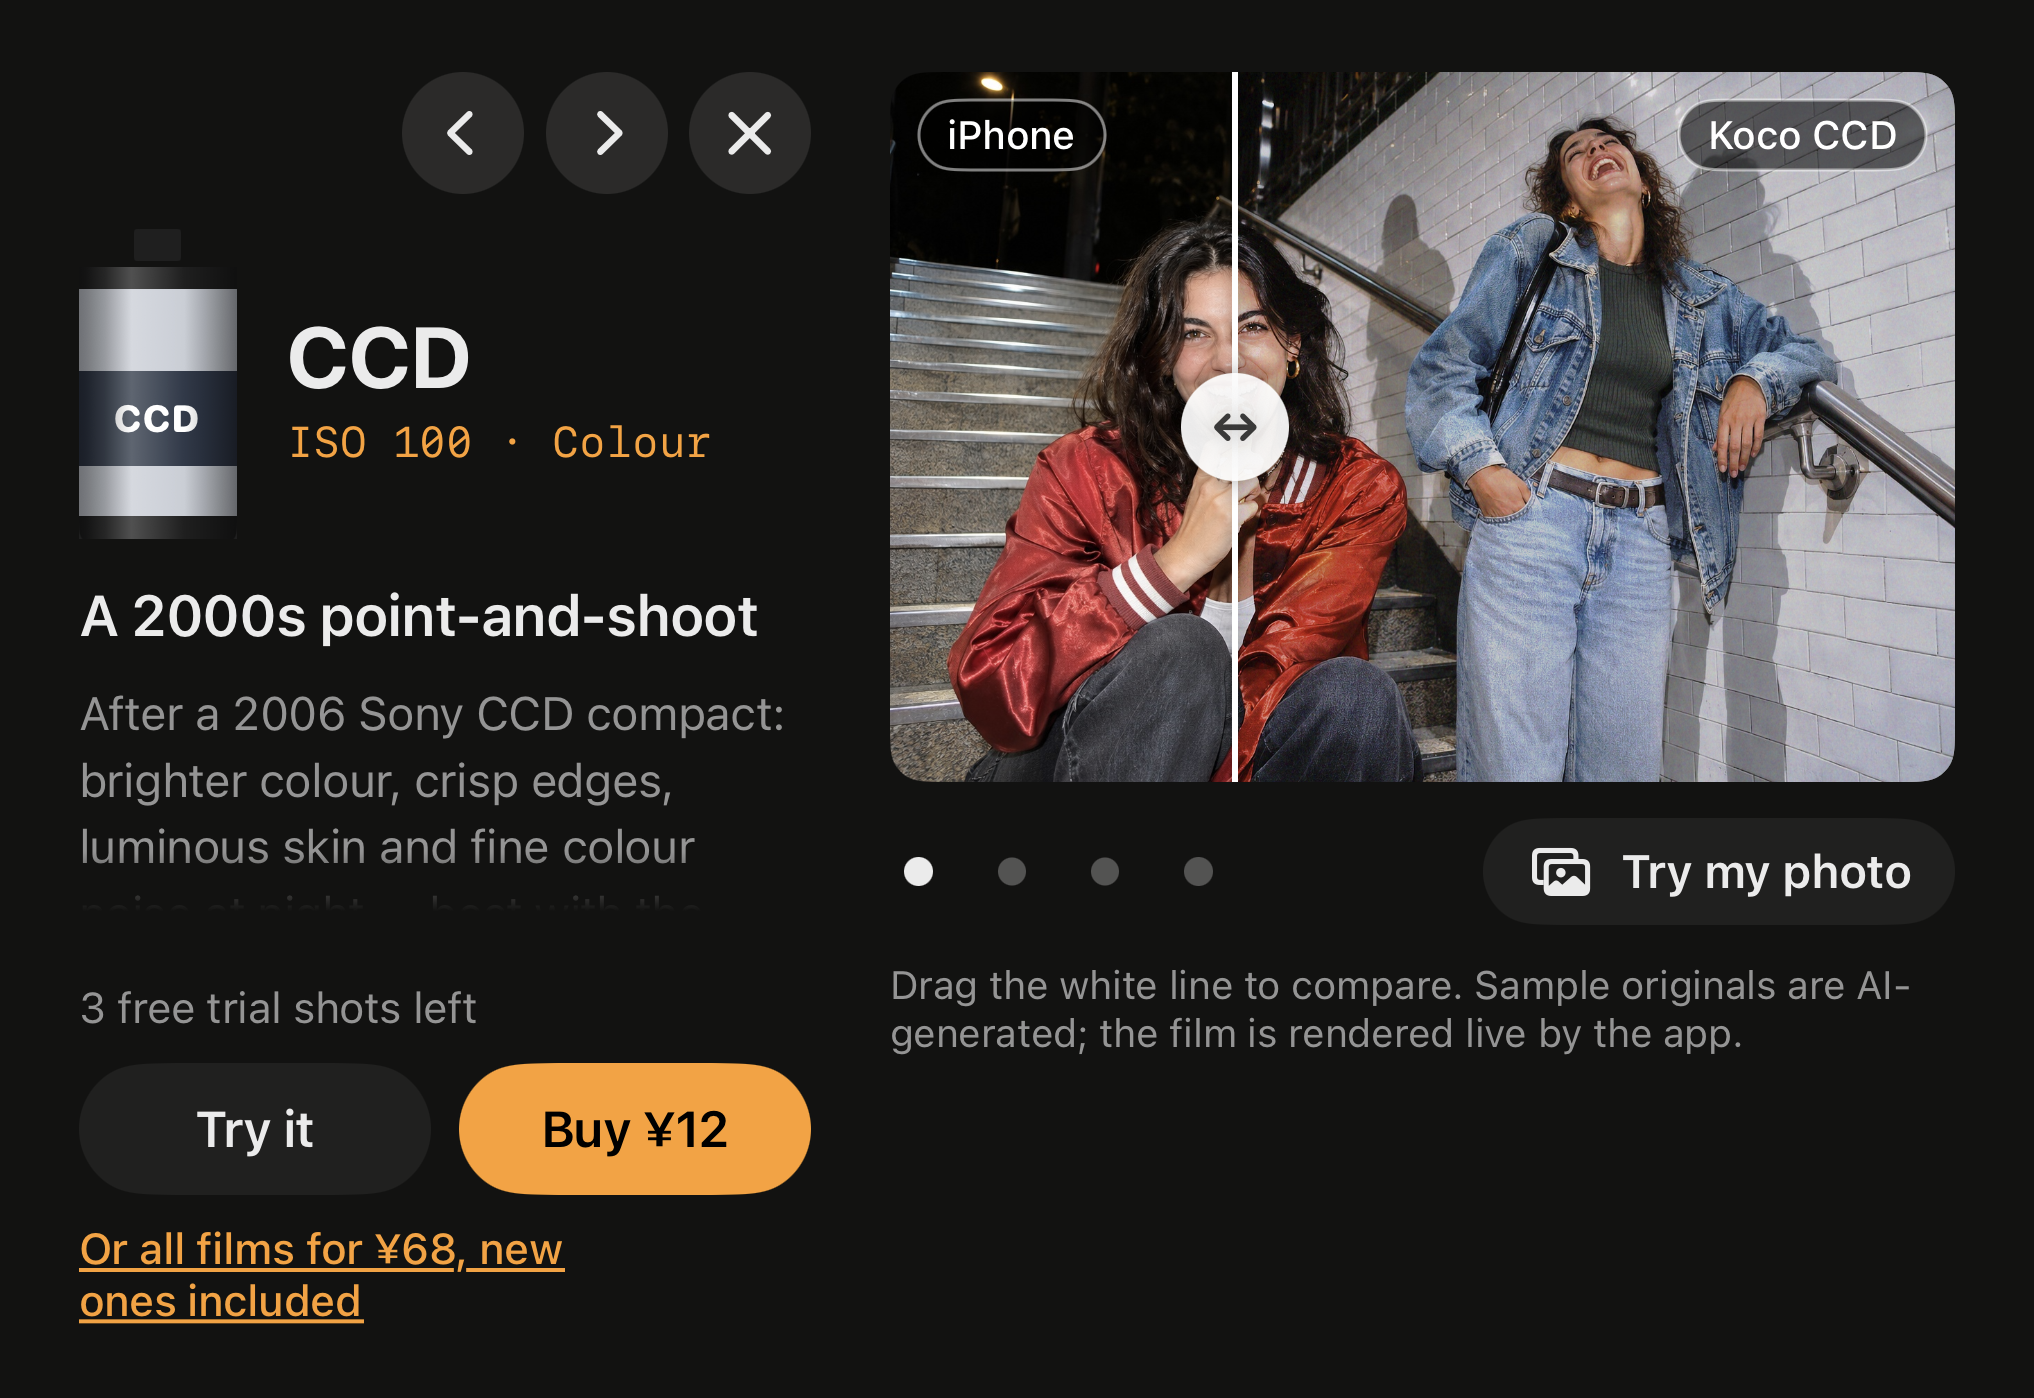
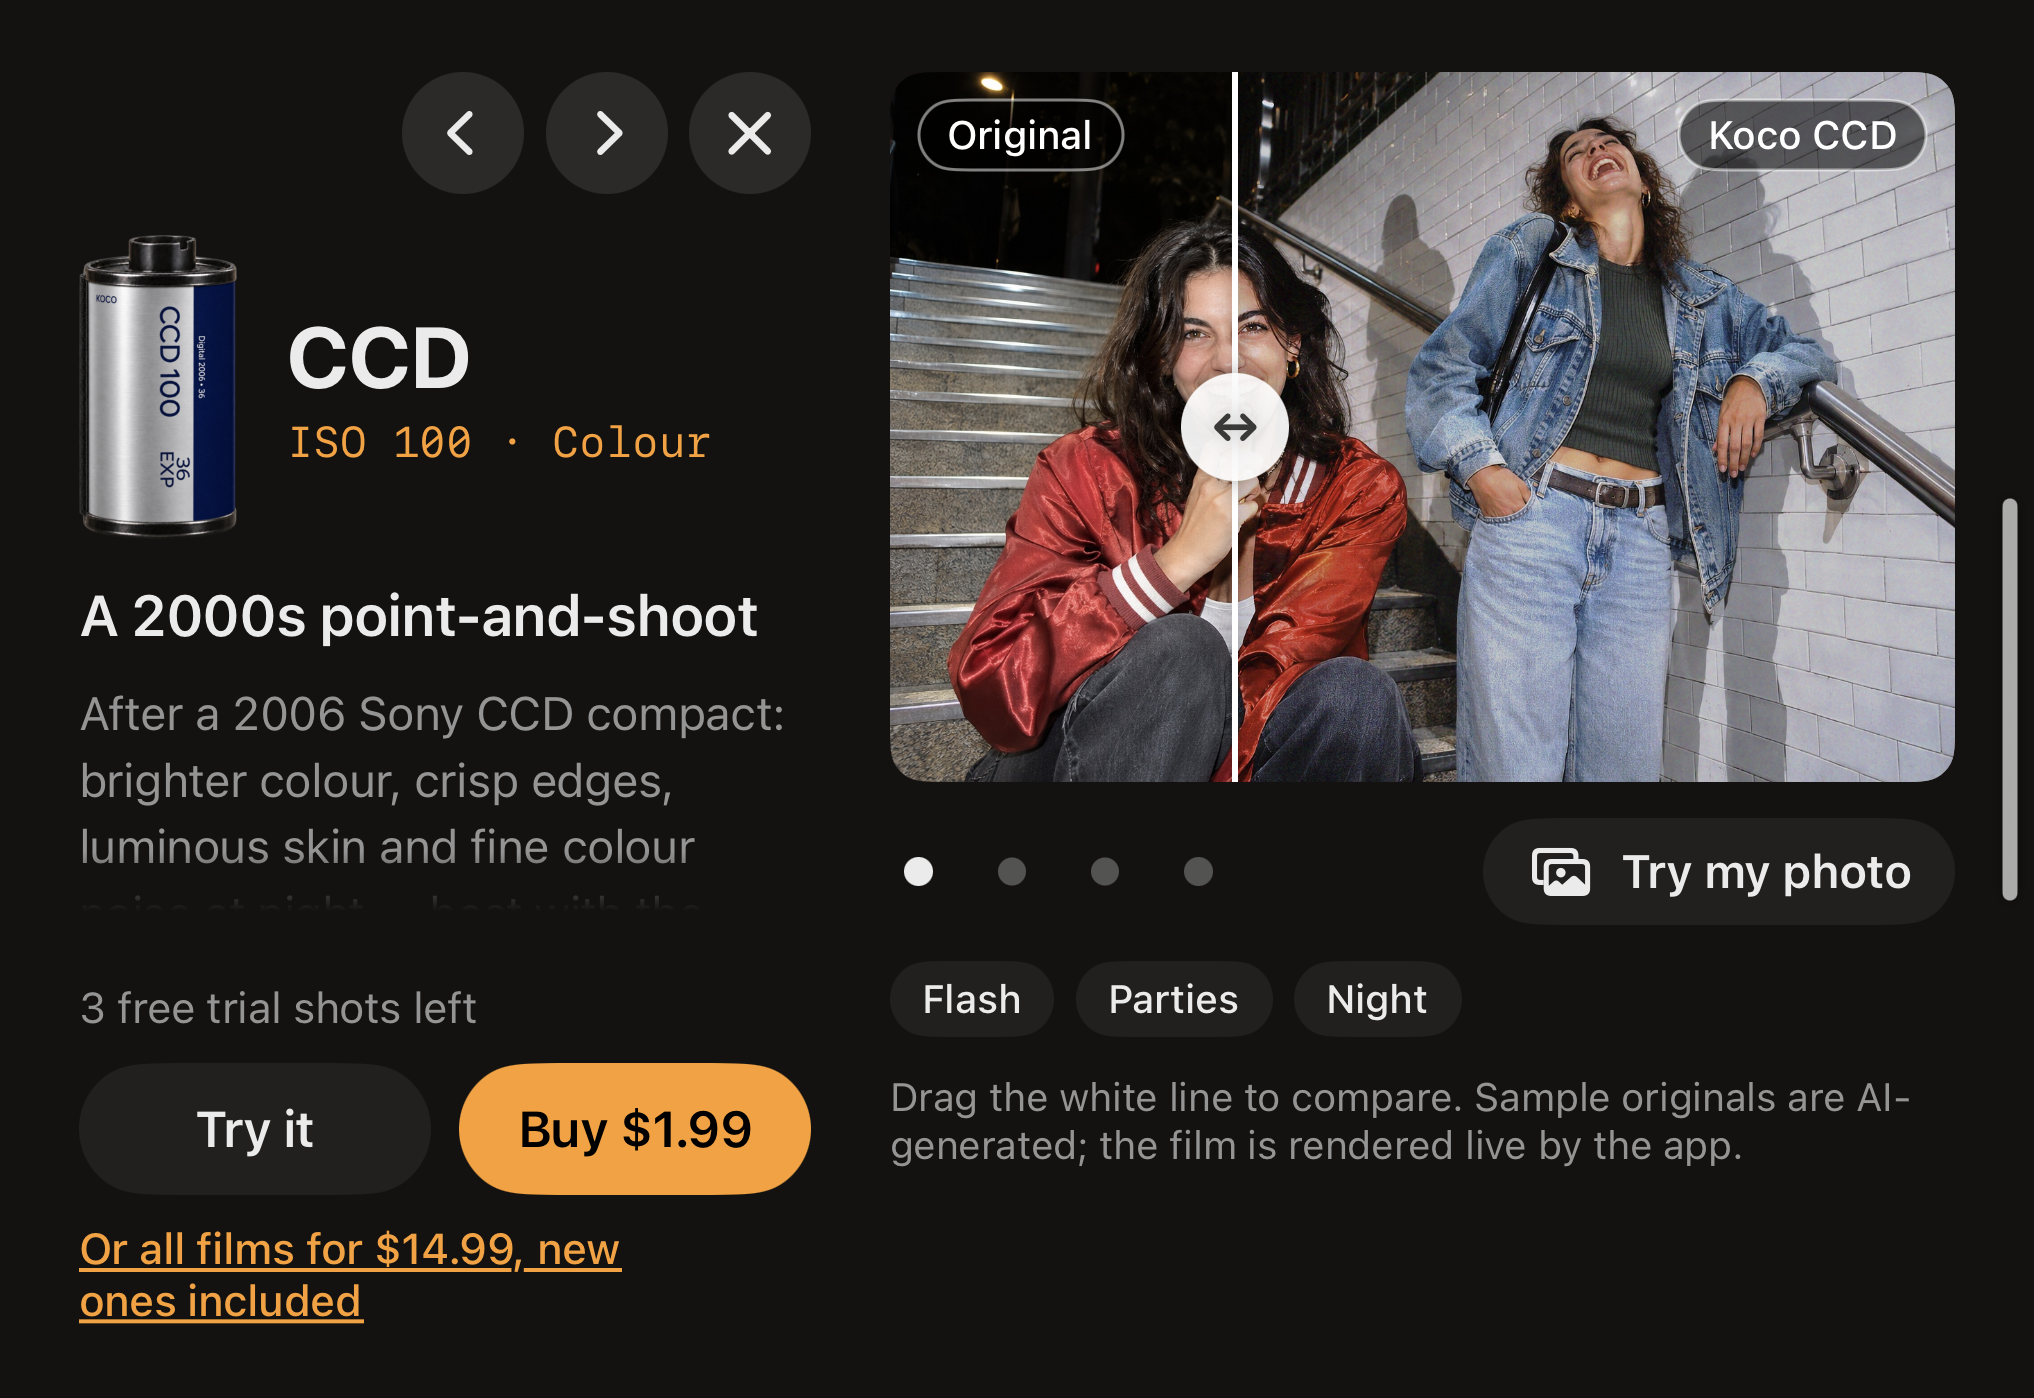
Check the release material against the app, and fix what was wrong
- Sample comparisons no longer call the AI-generated original "iPhone":
  "Original" for samples, "iPhone" only for the user's own photo,
  VoiceOver included; the store description says the same.
- The description no longer says every film comes from film data: GR Neg
  and CCD are fitted to real camera pictures.
- Purchase review screenshots re-shot with the new canisters.
- design/appstore/consistency.md lists what agrees and what is still open
  (brand names, waist-level finder, contacts, version, name, screenshots).
- The refund test waits for the refund to reach the entitlements.

diff --git a/cameragr/UI/FilmPanels.swift b/cameragr/UI/FilmPanels.swift
@@ -174,7 +174,8 @@ struct FilmDetailPanel: View {
             let frameHeight = min(width / 1.5, height - 130 * unit)
             Group {
                 if let own {
-                    CompareView(before: own.before, after: own.after, start: 0.5, filmName: film.name, unit: unit)
+                    CompareView(before: own.before, after: own.after, start: 0.5, filmName: film.name, unit: unit,
+                                beforeLabel: "iPhone")
                 } else if samples.indices.contains(sampleIndex) {
                     SampleCompare(film: film, sample: samples[sampleIndex], unit: unit)
                         .id(samples[sampleIndex].file)
@@ -331,6 +332,9 @@ struct CompareView: View {
     let start: Double
     let filmName: String
     let unit: CGFloat
+    /// What the left side is called: "iPhone" for the user's own photo,
+    /// "Original" for a sample (its originals are AI-generated, not iPhone pictures).
+    var beforeLabel: LocalizedStringKey = "Original"
     @State private var split: Double?
 
     var body: some View {
@@ -359,8 +363,8 @@ struct CompareView: View {
                     .background(Circle().fill(.white.opacity(0.92)))
                     .shadow(color: .black.opacity(0.35), radius: 4)
                     .position(x: x, y: geo.size.height / 2)
-                tag("iPhone").padding(8 * unit)
-                tag("Koco " + filmName).padding(8 * unit)
+                tag(Text(beforeLabel)).padding(8 * unit)
+                tag(Text(verbatim: "Koco " + filmName)).padding(8 * unit)
                     .frame(width: w, alignment: .trailing)
             }
             .clipShape(RoundedRectangle(cornerRadius: 10 * unit))
@@ -373,7 +377,8 @@ struct CompareView: View {
                 split = next
             })
             .accessibilityElement(children: .ignore)
-            .accessibilityLabel("iPhone original compared with \(filmName)")
+            .accessibilityLabel(beforeLabel == "iPhone" ? "Your photo compared with \(filmName)"
+                                                        : "Sample original compared with \(filmName)")
             .accessibilityValue("\(Int((split ?? start) * 100))%")
             .accessibilityAdjustableAction { direction in
                 let step = direction == .increment ? 0.1 : -0.1
@@ -382,8 +387,8 @@ struct CompareView: View {
         }
     }
 
-    private func tag(_ text: String) -> some View {
-        Text(text)
+    private func tag(_ text: Text) -> some View {
+        text
             .font(.system(size: 11 * unit, weight: .medium))
             .foregroundStyle(.white)
             .padding(.horizontal, 8 * unit).padding(.vertical, 3 * unit)

diff --git a/cameragrTests/KocoTests.swift b/cameragrTests/KocoTests.swift
@@ -248,7 +248,13 @@ struct StoreKitTests {
         #expect(store.isUnlocked(film))
         let transaction = try #require(session.allTransactions().first { $0.productIdentifier == FilmStore.productID(film) })
         try session.refundTransaction(identifier: UInt(transaction.identifier))
-        await store.refresh()   // what restore does after asking the App Store
+        // What restore does after asking the App Store; the refund can take a
+        // moment to reach the entitlements, so look again for up to 5 seconds.
+        for _ in 0..<50 {
+            await store.refresh()
+            if !store.isUnlocked(film) { break }
+            try await Task.sleep(for: .milliseconds(100))
+        }
         #expect(!store.isUnlocked(film))
     }
 

diff --git a/design/appstore/metadata.md b/design/appstore/metadata.md
@@ -9,13 +9,13 @@
 Koco is a film camera for your iPhone. Load a roll, look through the finder and shoot — the film is in the picture as you frame it, not added afterwards.
 
 FILMS THAT BEHAVE LIKE FILM
-Every film is computed from the stock’s own spectral and grain data: how it sees colour, how its highlights roll off, how its grain grows in the shadows. Portra 400 for soft, warm skin. Gold 200 for summer. C200 for cool everyday colour. Cine 500T for nights that look like a movie. Kodachrome 64 for rich reds, yellows and blues. Tri-X 400 for classic black and white. Instax for instant-film whites. GR Neg for muted city streets. CCD for the 2000s point-and-shoot look, flash and all.
+The film stocks are computed from each stock’s own spectral and grain data: how it sees colour, how its highlights roll off, how its grain grows in the shadows. GR Neg and CCD are fitted to real pictures from those cameras. Portra 400 for soft, warm skin. Gold 200 for summer. C200 for cool everyday colour. Cine 500T for nights that look like a movie. Kodachrome 64 for rich reds, yellows and blues. Tri-X 400 for classic black and white. Instax for instant-film whites. GR Neg for muted city streets. CCD for the 2000s point-and-shoot look, flash and all.
 
 A CAMERA YOU HOLD
 A 1980s point-and-shoot body with real keys, an LCD panel and a film chamber you open to change the roll. Press the Camera Control button to shoot, even from the Lock Screen. On a foldable iPhone, half-open the phone for a waist-level finder.
 
 TRY BEFORE YOU BUY
-Three films are free. Every other film has free trial shots, and on each film’s page you can drag between the iPhone original and the film, or try it on any photo of yours. Buy films one by one, or get all films — including every film added later — in one purchase, shared with your family.
+Three films are free. Every other film has free trial shots, and on each film’s page you can drag between a sample original and the film, or try it on any photo of yours. Buy films one by one, or get all films — including every film added later — in one purchase, shared with your family.
 
 PRIVATE BY DESIGN
 Everything happens on your iPhone. No account, no uploads, no tracking. Pictures are saved to a Koco album in Photos, with the iPhone original too if you like.
@@ -29,13 +29,13 @@ Everything happens on your iPhone. No account, no uploads, no tracking. Pictures
 Koco 是装在 iPhone 里的胶片相机。装上一卷胶卷，看着取景器按下快门——胶片的味道在你构图时就已经在画面里了，而不是事后加上去的滤镜。
 
 像胶片一样的胶片
-每一卷都按真实胶卷的光谱和颗粒数据计算：它怎么看颜色，高光怎么过渡，颗粒怎么在暗部生长。Portra 400 拍柔和温暖的肤色，Gold 200 拍夏天，C200 拍清淡的日常，Cine 500T 拍电影感的夜晚，Kodachrome 64 拍浓郁的红黄蓝，Tri-X 400 拍经典黑白，拍立得拍亮白的即显感，GR 负片拍低饱和的城市街头，CCD 还原 2000 年代卡片机，配上闪光灯最有味道。
+胶卷按每种胶卷自己的光谱和颗粒数据计算：它怎么看颜色，高光怎么过渡，颗粒怎么在暗部生长。GR 负片和 CCD 则按这两种相机的实拍照片拟合。Portra 400 拍柔和温暖的肤色，Gold 200 拍夏天，C200 拍清淡的日常，Cine 500T 拍电影感的夜晚，Kodachrome 64 拍浓郁的红黄蓝，Tri-X 400 拍经典黑白，拍立得拍亮白的即显感，GR 负片拍低饱和的城市街头，CCD 还原 2000 年代卡片机，配上闪光灯最有味道。
 
 握在手里的相机
 一台八十年代的傻瓜相机：实体按键、液晶信息屏，打开胶卷仓就能换卷。按相机控制按钮就能拍，锁屏时也可以。折叠屏 iPhone 半开，就是一台腰平取景的相机。
 
 先试后买
-三卷胶卷免费，其余每卷都能免费试拍。在每卷胶卷的详情页，可以左右拖动对比 iPhone 原图和胶片效果，也可以用你自己的照片试。胶卷可以单卷购买，也可以一次买下全部胶卷，以后上新的也包括在内，家人也能共用。
+三卷胶卷免费，其余每卷都能免费试拍。在每卷胶卷的详情页，可以左右拖动对比样张原图和胶片效果，也可以用你自己的照片试。胶卷可以单卷购买，也可以一次买下全部胶卷，以后上新的也包括在内，家人也能共用。
 
 隐私
 一切都在你的 iPhone 上完成。没有账号，不上传，不追踪。照片存进“照片”App 里的 Koco 相簿，需要的话还能同时保存 iPhone 原图。

diff --git a/design/appstore/consistency.md b/design/appstore/consistency.md
@@ -1,0 +1,34 @@
+# Release material — consistency check (2026-11-21)
+
+Checked: `metadata.md`, `review-notes.md`, `Config/Koco.storekit`,
+`cameragr/Resources/Films/films.json`, `design/appstore/iap/`, `docs/`
+(support and privacy pages), the app itself. Nothing personal filled in.
+
+## Fixed in this check
+| What | Where | Was | Now |
+|---|---|---|---|
+| Sample comparison called the original "iPhone" | film page (app, incl. VoiceOver), store description EN/中文 | "iPhone original" / “iPhone 原图” — but sample originals are AI-generated | app: "Original"/“原图” for samples, "iPhone" only for the user's own photo, VoiceOver likewise; description: "a sample original" / “样张原图” |
+| "Every film is computed from spectral data" | description EN/中文 | GR Neg and CCD are fitted to real camera pictures, not film data | says so |
+| Purchase review screenshots showed old code-drawn canisters | `design/appstore/iap/*.png` (7) | stand-in canisters, "iPhone" label | re-shot with the GPT canisters, current labels and prices |
+
+## Agree (no action)
+- Products: 7 non-consumables — 6 films + All Films; IDs match the app; prices $1.99 / $14.99 (¥12 / ¥68 in metadata); Family Sharing on in the local configuration.
+- Free films: Gold 200, Tri-X 400, Instax in the app = "three films are free" in the description, review notes and support page.
+- Trial shots: 3 per paid film everywhere.
+- Privacy: "no account, no uploads, no tracking" matches the privacy manifests (no data collected) and the privacy page.
+
+## Still open
+| # | What | Where | Needs | Owner |
+|---|---|---|---|---|
+| 1 | Film brand names (Portra, Kodachrome, Tri-X, Instax, Kodak, Fuji, Polaroid…) in keywords, description and promotional text; the can says "CHROME 64" while text says Kodachrome | metadata.md, canisters | decide how far brand names may be used (trademark risk at review) | user — QUEUE B3 |
+| 2 | "Half-open the phone for a waist-level finder" | description EN/中文, review notes | the waist-level finder (F2) is not built yet; keep the sentence only if it ships | me, after B12 |
+| 3 | Open-flat film library not in the store description (review notes describe the drawer) | description; review notes | add to the description and update the notes once the design is final | me, after B10 |
+| 3b | "Save the iPhone original too" setting and description line vs the earlier decision "no unfiltered original kept" | Settings, description EN/中文 | which is current: keep the setting (then update the decision) or remove it (then the line goes) | user — QUEUE B13 |
+| 3c | App Review contact (name, phone, email) | App Store Connect → App Review Information | filled in by the account holder; check before submitting | user — 2.8 |
+| 4 | Copyright line | metadata.md | name or company | user — B2 |
+| 5 | Support URL, privacy URL, support email | metadata.md, review notes | GitHub Pages address final; new support email | user — B5/B6 |
+| 6 | App name "Koco Film" / "Koco 胶片相机" availability | App Store Connect | check when creating the app | user — B6 |
+| 7 | Version | project.yml MARKETING_VERSION 0.1.0 | set to 1.0 for the release build | me, at 2.4 |
+| 8 | Share video says "iPhone → Koco" | ComparisonVideo (not wired yet) | use "Original" wording for samples when it is wired (B4) | me |
+| 9 | App Store screenshots | design/appstore/shots | sample only; full set after style approval | user — B11 |
+| 10 | Family Sharing, prices, names in App Store Connect | App Store Connect | must match this list when the products are created | user — 2.1/2.3 |
